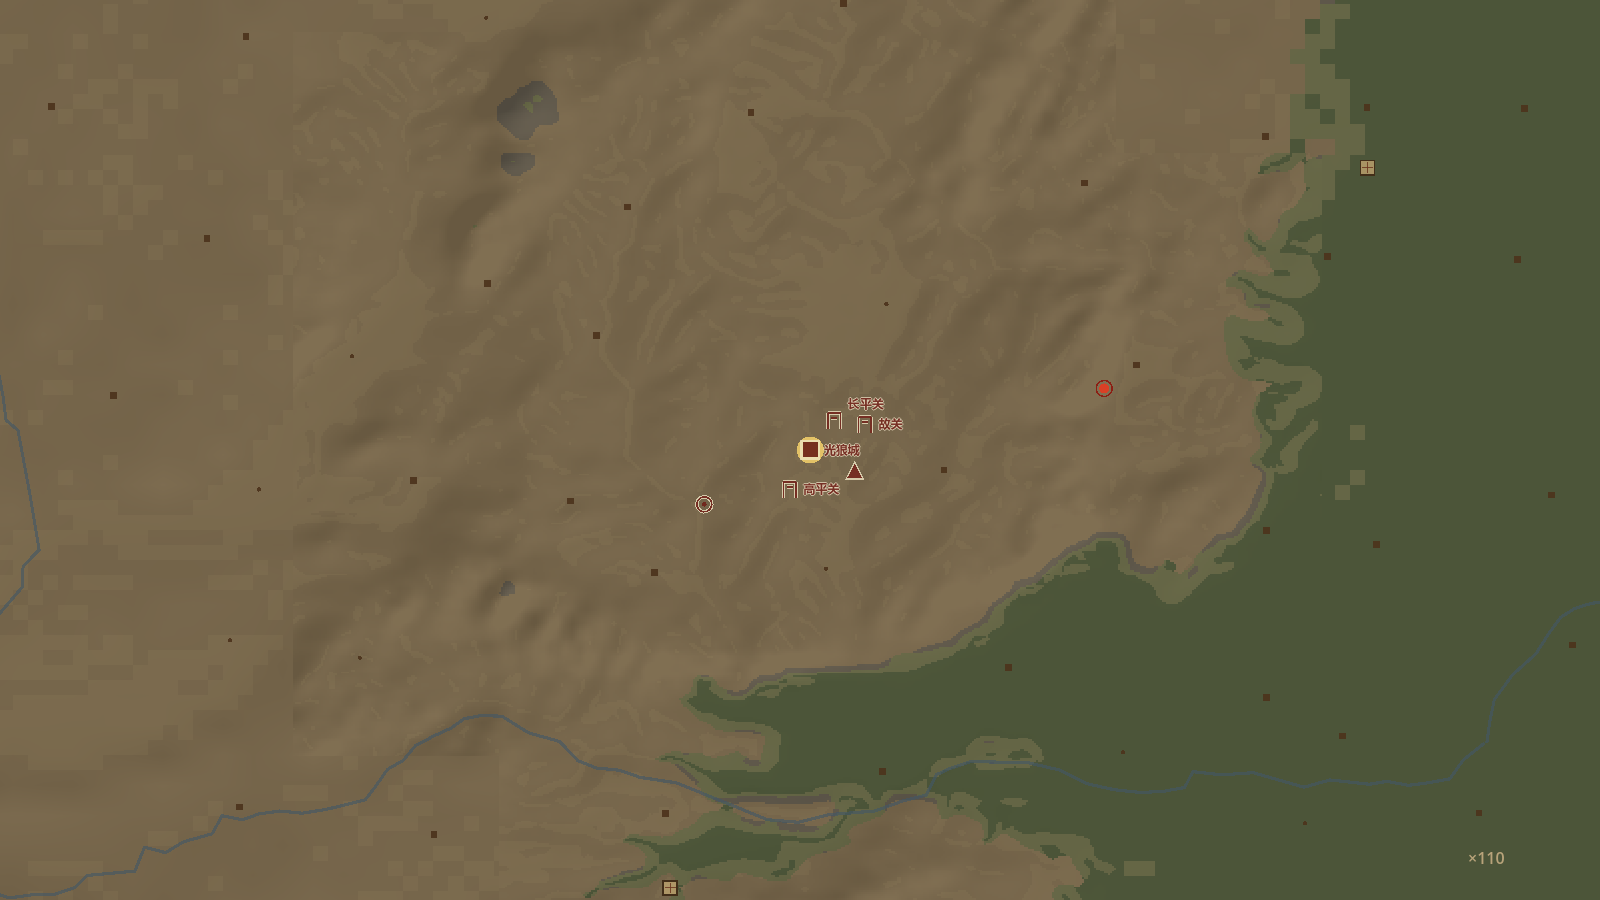
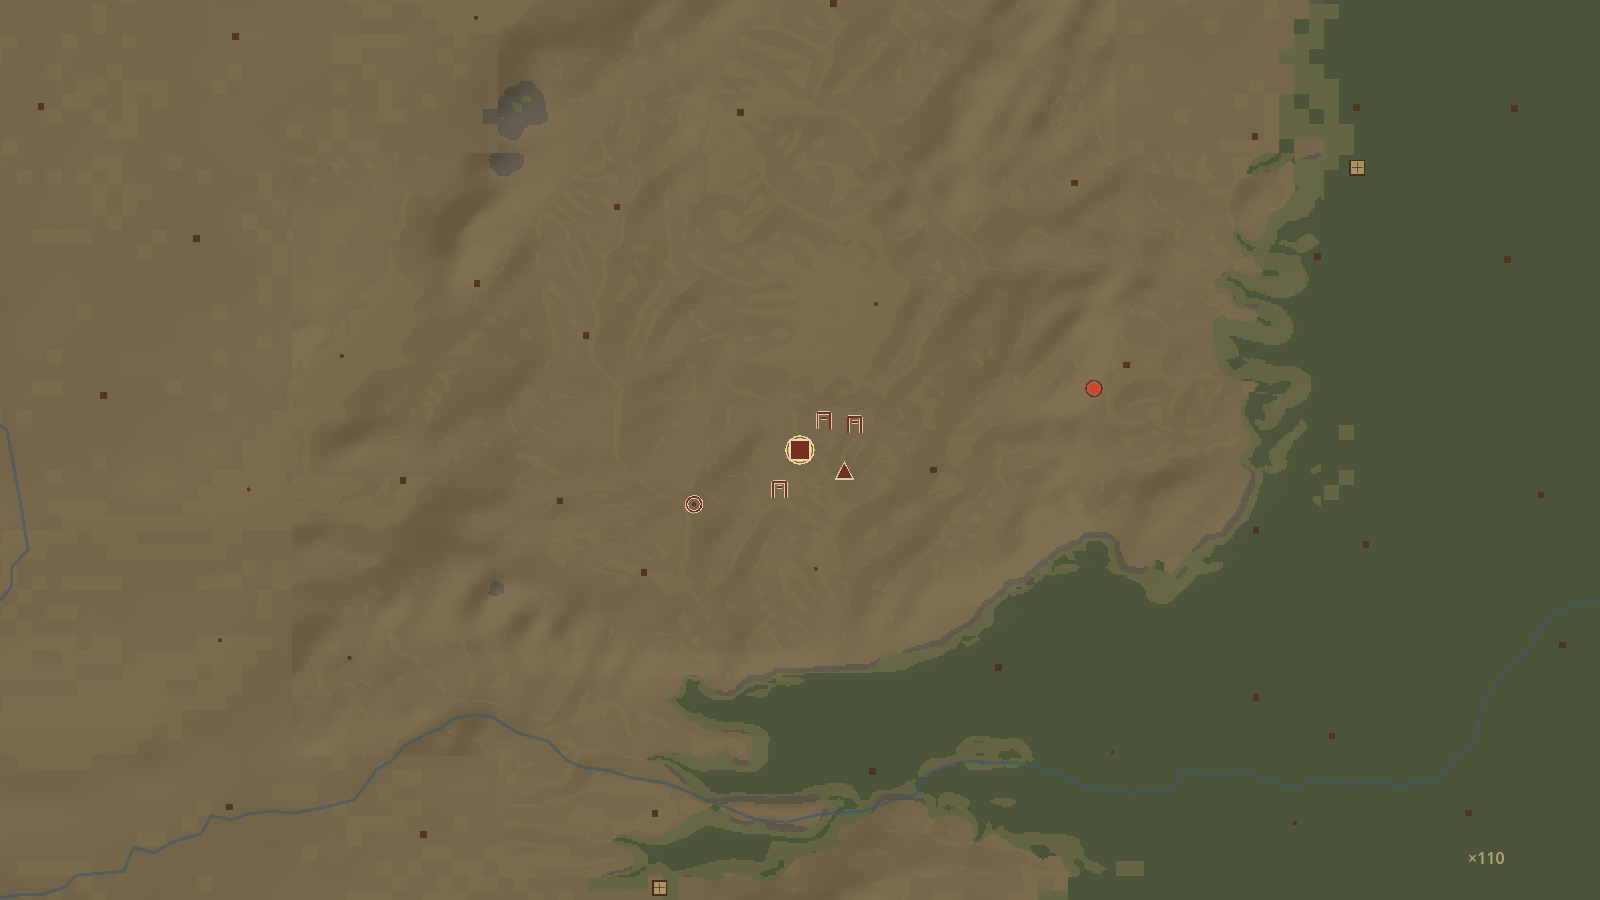
地图不落文字：删关城地名与城门方位字，只保留朱砂图标；悬停改为金盘+亮边+放大，名字只走点击面板

diff --git a/交接_地图系统.md b/交接_地图系统.md
@@ -209,7 +209,11 @@ powershell -NoProfile -ExecutionPolicy Bypass -File tools\run_tests.ps1
 | 滚轮 | 以鼠标为轴心缩放 |
 | 右键 | 落旅行标（自由点） |
 | 回车 / 空格 | 旅行到旅行标 |
-| 鼠标悬停 | 定居点高亮（金环） |
+| 鼠标悬停 | 定居点/关城高亮（金环、金盘），**不出文字** |
+
+**地图上不写任何地名/注记**（2026-11-15 用户明确要求）：城市、聚落、关城、邑只要图标，
+鼠标悬停高亮表示"这个可以点"，名字与年代只在点开的面板里看。城门也不写"南/东/北/西"。
+（图上唯一的数字是右下角的缩放读数 `×61.0`，那是 UI 读数，不是地图注记。）
 
 **旅行**（`_travel_ll`）：算距离 → 按 30 km/天折算 → 推进世界时间 → 重建地形 → 落在平坦地面；海面会被拦截。
 
@@ -294,10 +298,9 @@ powershell -NoProfile -ExecutionPolicy Bypass -File tools\run_tests.ps1
    `data/sites_han.json` + `TG.sites()`（六处：光狼城 / 长平关 / 高平关 / 故关 / 金门 / 端氏）画到地图上：
    - 符号按类别区分：**城**=实心方块、**关**=两根立柱+门楣（冂形）、**邑**=圆环+心点、**要地**=三角；
    - 底图上村庄就是一堆褐色小方块/圆环，光靠颜色分不出来 → 符号一律**朱砂色 + 米色描边**；
-   - 低倍（<12 倍）只画符号；12 倍以上给**城/关**写地名（邑/要地只留符号，悬停才出名字），
-     字号 11（<60 倍）/12；地名绕符号试 12 个候选位置，并**避开别的符号和已放置的地名**，
-     实在放不下就不写；离符号超过 sz+9 时拉一条细引线，避免"这名字是谁的"；
-   - 悬停 = 金色圆盘 + 一定出名字；左键 = 面板（地名 + 类别·年代 + 前往），点击优先级 城市 → 关城 → 聚落；
+   - **图上不落文字**（用户要求）：不写地名、不写城门方位；悬停 = 金盘 + 亮边 + 符号放大 1.25 倍，
+     名字/年代只在左键弹出的面板里（这是唯一一次做文字版地名，已经删掉了，别再加回来）；
+   - 点击优先级 城市 → 关城 → 聚落；面板给了地名、"类别·年代"、"前往"；
    - 调试：`--sitepanel=索引` 直接弹面板，`--sitestats` 无窗口打印坐标/高程/分类。
 
 10. **聚落海陆校验** ✅（2026-11-15 这一轮）
@@ -409,6 +412,7 @@ a05f3c5 地图加舆图符号层
 - **改完一批再烘焙**，不要改一处烘一次；
 - 喜欢直接看**截图对比**，而不是文字描述；
 - 明确反对：把简单工程复杂化（例如按地貌分别设振幅）、无信息的装饰（沙丘走向）；
+- **地图上不写文字**：只要图标，鼠标悬停高亮即可（2026-11-15 明确要求，别再加地名注记）；
 - 地图的目标是**服务快速旅行**，不是做地形展示。
 
 ## 13. 细节层最终形态（2026-11-15 凌晨定稿）
@@ -460,28 +464,29 @@ a05f3c5 地图加舆图符号层
 | 文件 | 改动 |
 |---|---|
 | `ias/shaders/map.gdshader` | 删掉 `palette_fine_tex` / `pal_fine` / `pal()`，`lf_color()` 只剩一套 29 类本色 |
-| `ias/scripts/main.gd` | 调色板只留 `palette_tex`；新增 `_draw_sites()` / `_site_marker()` / `_site_hit()` / `_open_site_panel()`；目的地面板加副标题 `Sub`；`_ensure_settlements()` 加 `_on_water()` 海陆校验；新增调试参数 `--sitepanel=`、`--sitestats` |
-| `截图_20261115/` | 本轮四张对比图（见下） |
-| `交接_地图系统.md` | 第 1/2/3/4/7/8/13 节同步 + 新增本节 |
+| `ias/scripts/main.gd` | 调色板只留 `palette_tex`；新增 `_draw_sites()` / `_site_marker()` / `_site_hit()` / `_open_site_panel()`；目的地面板加副标题 `Sub`；`_ensure_settlements()` 加 `_on_water()` 海陆校验；新增调试参数 `--sitepanel=`、`--sitestats`；**去掉图上所有地名/城门方位字**（只留图标 + 悬停高亮） |
+| `截图_20261115/` | 本轮对比图（见下） |
+| `交接_地图系统.md` | 第 1/2/3/4/7/8/12/13 节同步 + 新增本节 |
 
 ### 验证方法（下次照做，都是几秒钟级别）
 1. `--sitestats`（无窗口，约 3 秒）：关城坐标/高程/分类 + 聚落剔除统计 + 遗留水点数；
 2. `--mapcenter=112.90,35.85 --mapzoom=59` 与 `61` 两次同机位截图，比跨 60 倍有没有颜色跳变；
 3. `--mapcenter=112.94,35.90 --mapzoom=60 --sitepanel=1`：看面板标题/副标题/「前往」；
-4. `--mapcenter=112.83,35.83 --mapzoom=40`（和 `110`）：看六个点位的符号、地名、引线；
+4. `--mapcenter=112.860,35.830 --mapzoom=110`：看六个点位的图标（**图上不应该有任何文字**，
+   鼠标在屏幕正中时应看到被悬停那个的金盘 + 亮边 + 放大）；
 5. `run_tests.ps1` 6 项全过再提交。
 
 ### 截图
-- `截图_20261115/地图_关城40倍.png`（六个点位在 40 倍挤成一丛，地名靠引线识别）
-- `截图_20261115/地图_关城110倍.png`（110 倍：符号清楚、地名不压符号）
+- `截图_20261115/地图_关城60倍.png`（60 倍：六个图标 + 悬停高亮，图上无文字）
+- `截图_20261115/地图_关城110倍.png`（110 倍：同一丛点位拉开，图标仍无文字）
 - `截图_20261115/地图_关城面板.png`（点开长平关：标题 + 「关 · 前260年」 + 前往）
 - `截图_20261115/地图_61倍细节层.png`（61 倍细节层接手，配色与 59 倍连续）
 
 ### 这轮踩的坑（写代码前先看）
-- **地名会盖住别人的符号**：先画符号、后写地名时，地名必须避开**所有**符号的包围盒，
-  不能只避开已写的地名；不然"故关"两个字直接压在"光狼城"的城郭上。
-- **同一片关城挤在 0.5° 里**（长平那一丛），12 个候选位置也会互相顶掉 —— 所以低倍只给城/关写名字，
-  邑和要地留符号；实在放不下就不写（悬停一定出名字）。加一条"离符号远了才画的细引线"就够了，不要做手绘避让。
+- **地图上不落文字**：先做过一版"关城写地名 + 12 个候选位置避让 + 引线"，
+  用户看一眼就否了（要图标 + 悬停高亮）。整段已删，别再捡回来；
+  上一版的教训留一句：地名一旦上图，就必须避开**所有符号**的包围盒（不只是别的地名），
+  而长平那一丛六点在 40 倍只占 70×34 px，怎么摆都会糊。
 - **海陆校验的两份数据都会骗人**：`land_mask` 4096 一格，崇明/长山这种小岛整格判水；
   底图高程在珠三角低洼地会到 -5 m（炭步、万顷沙）。要么两份互证（现在的做法），要么就被误杀。
 - 检查 `.gd` 语法用 `--check-only --script res://scripts/main.gd`，但**着色器错误只会在完整输出里出现**，
